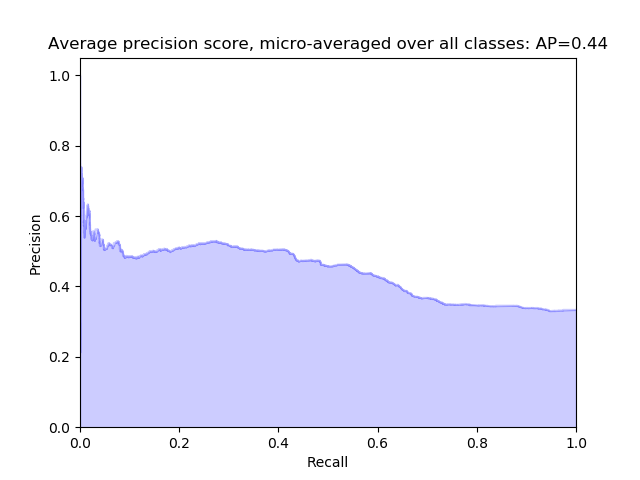
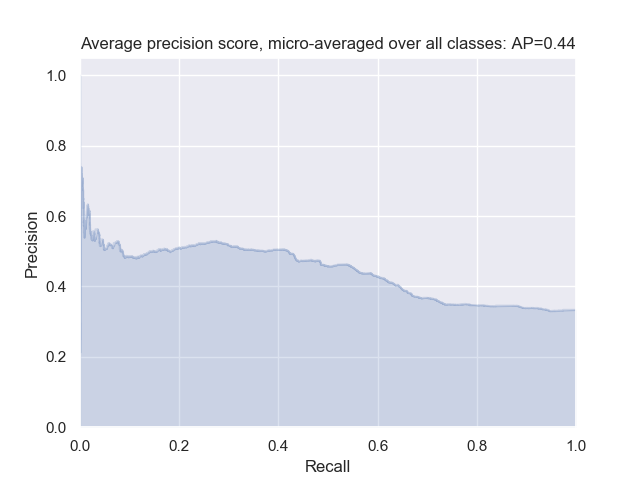
Add confusion matrix plot

diff --git a/RandomForest/Random_forest_usage.py b/RandomForest/Random_forest_usage.py
@@ -9,6 +9,7 @@ from sklearn.metrics import average_precision_score
 from sklearn.preprocessing import label_binarize
 import matplotlib.pyplot as plt
 import time
+import seaborn as sns; sns.set()
 from datetime import datetime
 from openBCI.Channel_selection import variance
 
@@ -18,9 +19,9 @@ def prediction(data: str):
     dt = pd.read_csv(data)
     # Get the channel numbers with the highest variance
     # data = data.loc[]
-    X = dt.drop(['0'], axis=1)
-    # channels = variance.count_variance(data)
-    # X = dt[channels]
+    # X = dt.drop(['0'], axis=1)
+    channels = variance.count_variance(data)
+    X = dt[channels]
     y = dt.iloc[:,8:]#.values.ravel()
     #X = np.c_[X]
 
@@ -87,6 +88,12 @@ def prediction(data: str):
 
     # Confusion matrix
     cm = confusion_matrix(y, p)
+    names = (['rest(0)', 'left', 'right'])
+    sns.heatmap(cm, square=True, annot=True, fmt='d', cbar=False,
+                xticklabels=names, yticklabels=names)
+    plt.xlabel('Truth')
+    plt.ylabel('Predicted')
+    plt.show()
     print("Conf_matrix: ", cm)
 
     # PLOT FOR EACH CLASS

diff --git a/Channel_selection/variance.py b/Channel_selection/variance.py
@@ -21,7 +21,7 @@ def ent(data):
 
 a = ent(cf.prepared_data_3min)
 print(a)
-'''
+
 def count_variance(datafile: str):
     # Read data
     data = pd.read_csv(datafile)
@@ -37,11 +37,10 @@ def count_variance(datafile: str):
     sorted_list = sorted(chan_var_list, key=lambda item: item[1], reverse=True)
     print(sorted_list)
     selected_channels = []
-    for i in range(8):
+    for i in range(4):
         selected_channels.append(str(sorted_list[i][0]))
     return selected_channels
 
 a = count_variance(cf.prepared_data_3min)
 print(a)
 
-'''
